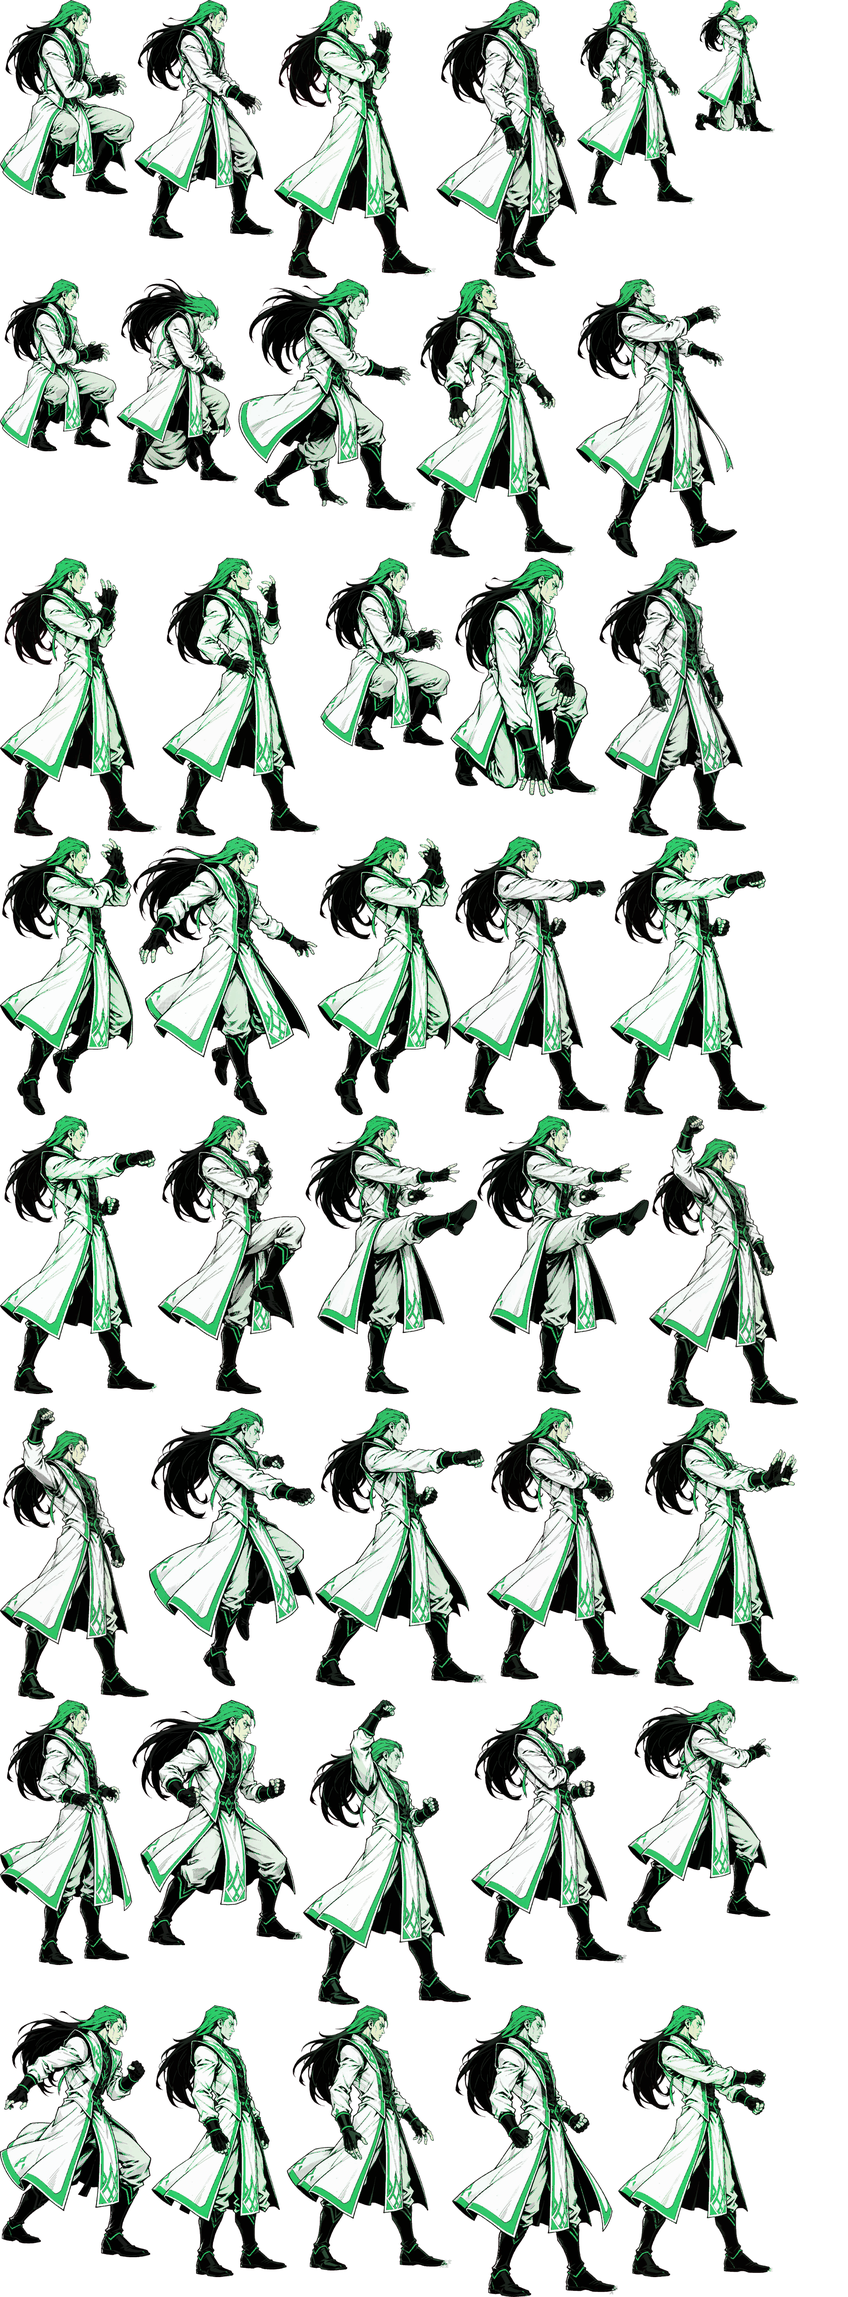
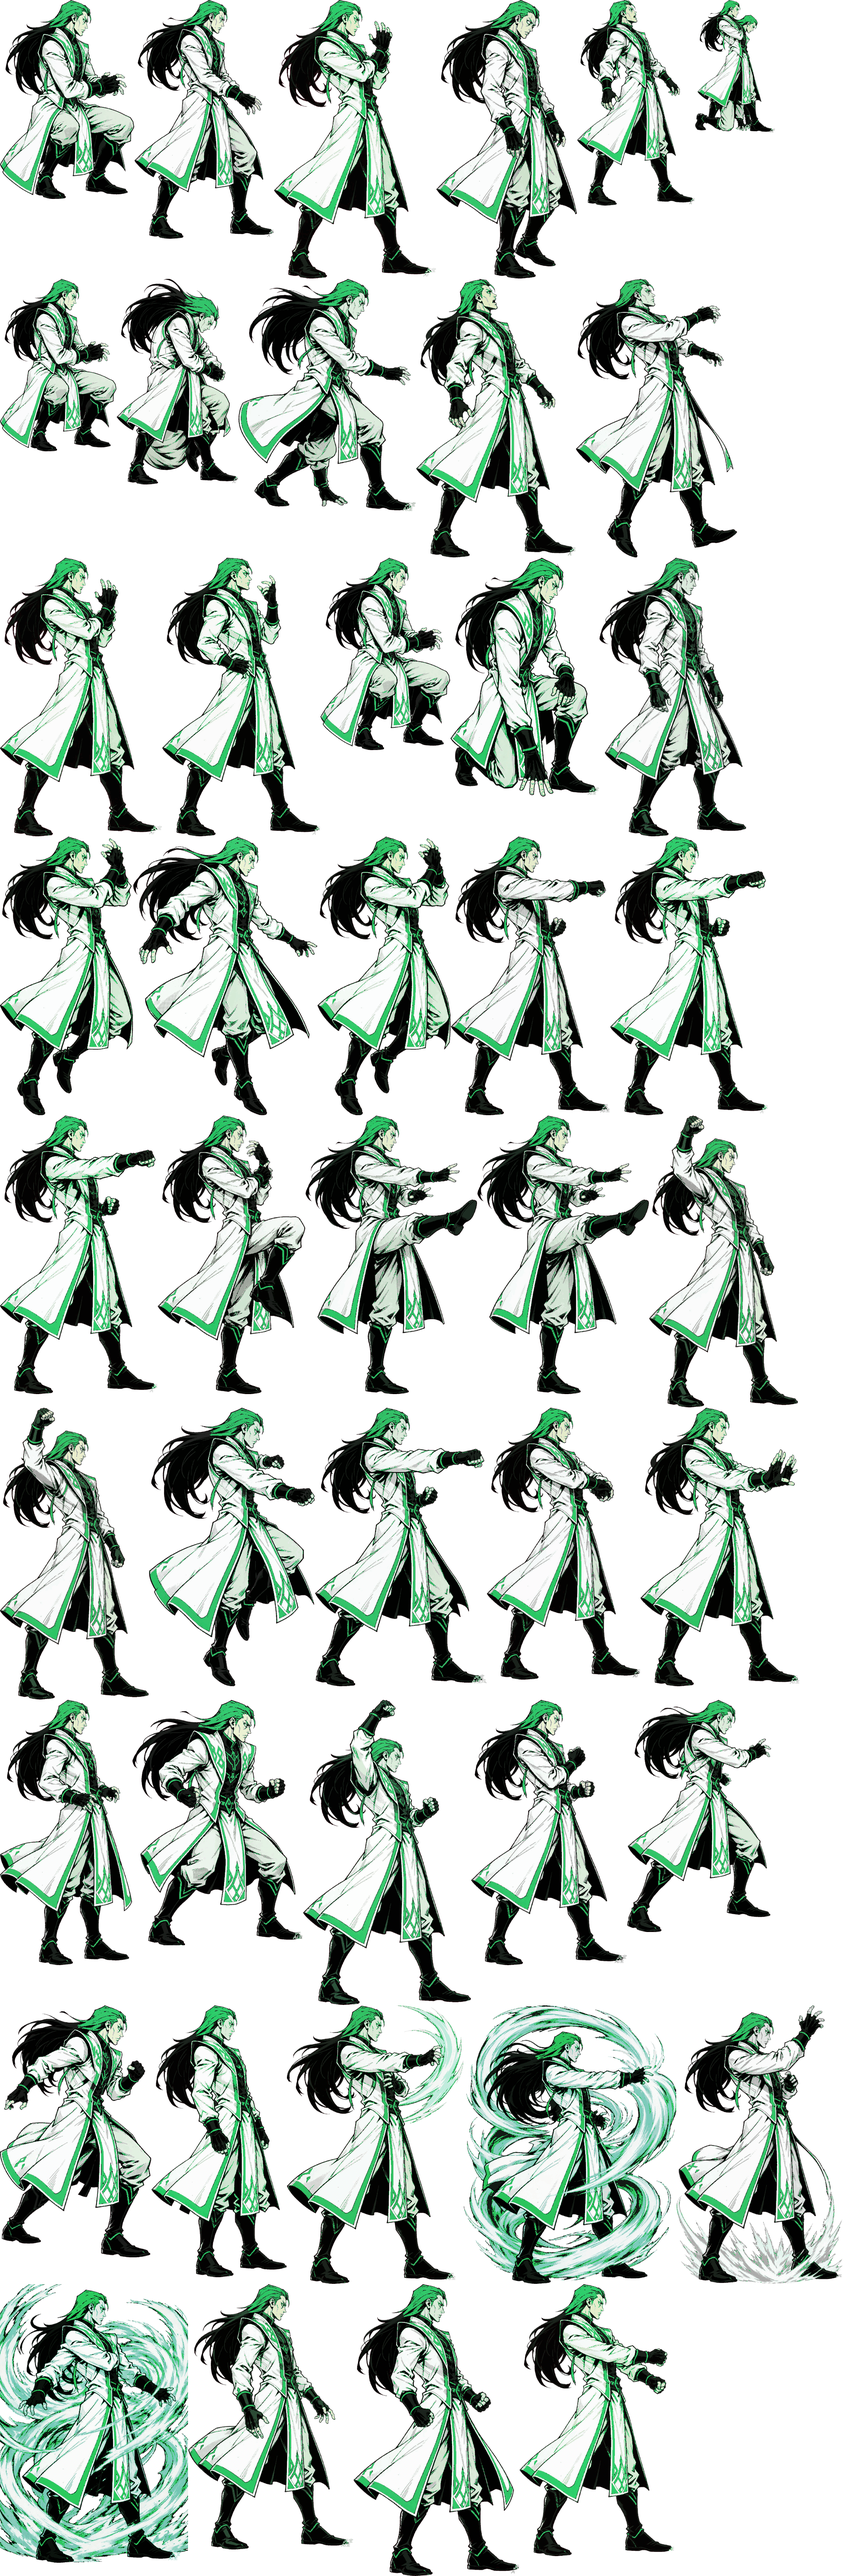
批次 20261027-0911 · [T271] 动作专属化 27/27 全部完成：Goenitz + Orochi
最后两个 BOSS，动作专属化收官。

改了什么：
- gen-poses 加 8 条（Goenitz：半透明青白风刃/巨大旋风柱/上升气流/铺天盖地风暴；
  Orochi：纯白空间裂隙/地面白光柱/全身被光吞没/背后白色大蛇虚影）
- build-sheet 加两组 8 个动画 + EXCLUSIVE_OWNER
- poses.ts 加 8 个兜底
- 两个角色数据各改 5 处

BOSS 的视觉语言刻意和普通角色反着来：
- Goenitz 的风是**流动的、有形的、铺满画面的**（和火/电那种"贴在身上"的特效不同）
- Orochi 的光是**静止的、耀眼的、把人吞没的**——光の柱那张整个人几乎没入白光只剩轮廓；
  而且姿势**刻意不发力**（抬手即灭），和前面 25 个角色的"发力姿势"完全相反

意外之喜：Orochi 超必杀 AI 真画出了背后一条巨大的白色大蛇虚影。

出图受阻：连续 12 张（三天王）+ 8 张触发限流，goenitzjorm/goenitzsuper/orochi 全部失败；
等 3 分钟后逐个补跑（每次间隔 60 秒）全部成功。

怎么验证的：打包两个 BOSS 都检查了错误，失败=0；art:check 通过；npm run check 995 条全绿

diff --git a/src/data/chars/goenitz.ts b/src/data/chars/goenitz.ts
@@ -28,7 +28,7 @@ export const GOENITZ: CharDef = {
 
     // ---------------------------------------------------------------- 必杀技
     // ミズチ：长判定风刃突进
-    '236A': mv('236A', 'ミズチ', 'special', 42, 'special', [
+    '236A': mv('236A', 'ミズチ', 'goenitzspecial1', 42, 'special', [
       hit('h1', {
         box: { x: 14, y: -76, w: 52, h: 40 },
         frames: [11, 16],
@@ -42,7 +42,7 @@ export const GOENITZ: CharDef = {
     ], { input: { motion: '236', buttons: ['A'] }, travel: 70, travelFrames: 16 }),
 
     // ヨルムンガンド：慢速大気弾
-    '214A': mv('214A', 'ヨルムンガンド', 'special', 44, 'special', [], {
+    '214A': mv('214A', 'ヨルムンガンド', 'goenitzspecial2', 44, 'special', [], {
       input: { motion: '214', buttons: ['A'] },
       projectile: {
         anim: 'ヨルムンガンド',
@@ -63,7 +63,7 @@ export const GOENITZ: CharDef = {
     }),
 
     // 对空：上升气刃
-    '623A': mv('623A', 'ゲーニッツ・ライジング', 'special', 44, 'special', [
+    '623A': mv('623A', 'ゲーニッツ・ライジング', 'goenitzspecial3', 44, 'special', [
       hit('h1', {
         box: { x: 6, y: -96, w: 34, h: 72 },
         frames: [5, 13],
@@ -77,7 +77,7 @@ export const GOENITZ: CharDef = {
     ], { input: { motion: '623', buttons: ['A'] }, invuln: [{ frames: [1, 7], kind: 'full' }] }),
 
     // ---------------------------------------------------------------- 超必杀
-    '236236A': mv('236236A', '大気の奔流', 'special', 70, 'super', [
+    '236236A': mv('236236A', '大気の奔流', 'goenitzsuper', 70, 'super', [
       hit('h1', { box: { x: 8, y: -92, w: 48, h: 46 }, frames: [10, 14], damage: 46, hitStun: 18, hitstop: 8, meterGain: 0 }),
       hit('h2', { box: { x: 8, y: -96, w: 52, h: 56 }, frames: [20, 24], damage: 42, hitStun: 18, hitstop: 8, meterGain: 0 }),
       hit('h3', {
@@ -91,7 +91,7 @@ export const GOENITZ: CharDef = {
       }),
     ], { input: { motion: '236236', buttons: ['A'] }, meterCost: 50 }),
 
-    '236236AC': mv('236236AC', '大気の奔流 MAX', 'special', 84, 'super', [
+    '236236AC': mv('236236AC', '大気の奔流 MAX', 'goenitzsuper', 84, 'super', [
       hit('h1', { box: { x: 6, y: -94, w: 52, h: 50 }, frames: [8, 11], damage: 40, hitStun: 18, hitstop: 7, meterGain: 0 }),
       hit('h2', { box: { x: 6, y: -98, w: 56, h: 58 }, frames: [16, 19], damage: 38, hitStun: 18, hitstop: 7, meterGain: 0 }),
       hit('h3', { box: { x: 4, y: -102, w: 60, h: 66 }, frames: [24, 27], damage: 38, hitStun: 18, hitstop: 7, meterGain: 0 }),

diff --git a/src/render/poses.ts b/src/render/poses.ts
@@ -668,6 +668,15 @@ export const POSE_LIBRARY: Record<string, Pose> = {
   chrisspecial2: { frameDuration: 1, loop: false, exclusive: 'chris', frames: [f({ head: p(8, -54), neck: p(8, -46), hip: p(2, -28), legFront: [p(20, -18), p(32, -8)], legBack: [p(-10, -16), p(-14, -2)] })] },
   chrisspecial3: { frameDuration: 1, loop: false, exclusive: 'chris', frames: [f({ head: p(1, -74), neck: p(1, -64), hip: p(0, -41), armFront: [p(10, -66), p(8, -82)], armBack: [p(-10, -50), p(-14, -42)] })] },
   chrissuper: { frameDuration: 1, loop: false, exclusive: 'chris', frames: [f({ head: p(-2, -70), neck: p(-2, -60), hip: p(0, -38), armFront: [p(14, -58), p(28, -54)], armBack: [p(-14, -58), p(-28, -54)] })] },
+  // Goenitz / Orochi 专属必杀的兜底（key 与 anim 名一致）
+  goenitzspecial1: { frameDuration: 1, loop: false, exclusive: 'goenitz', frames: [f({ head: p(4, -70), neck: p(4, -60), hip: p(1, -38), armFront: [p(16, -58), p(30, -54)], armBack: [p(-10, -52), p(-16, -46)] })] },
+  goenitzspecial2: { frameDuration: 1, loop: false, exclusive: 'goenitz', frames: [f({ head: p(2, -70), neck: p(1, -60), hip: p(-1, -38), armFront: [p(18, -58), p(32, -52)], armBack: [p(-14, -56), p(-26, -50)] })] },
+  goenitzspecial3: { frameDuration: 1, loop: false, exclusive: 'goenitz', frames: [f({ head: p(0, -76), neck: p(0, -64), hip: p(0, -42), armFront: [p(8, -72), p(8, -90)], armBack: [p(-8, -50), p(-12, -42)] })] },
+  goenitzsuper: { frameDuration: 1, loop: false, exclusive: 'goenitz', frames: [f({ head: p(0, -72), neck: p(0, -62), hip: p(0, -40), armFront: [p(20, -60), p(34, -58)], armBack: [p(-20, -60), p(-34, -58)] })] },
+  orochispecial1: { frameDuration: 1, loop: false, exclusive: 'orochi', frames: [f({ head: p(2, -72), neck: p(2, -62), hip: p(0, -40), armFront: [p(14, -58), p(28, -54)], armBack: [p(-8, -54), p(-12, -48)] })] },
+  orochispecial2: { frameDuration: 1, loop: false, exclusive: 'orochi', frames: [f({ head: p(1, -70), neck: p(1, -60), hip: p(0, -39), armFront: [p(12, -46), p(16, -26)], armBack: [p(-10, -50), p(-14, -30)] })] },
+  orochispecial3: { frameDuration: 1, loop: false, exclusive: 'orochi', frames: [f({ head: p(0, -74), neck: p(0, -64), hip: p(0, -41), armFront: [p(10, -70), p(10, -88)], armBack: [p(-10, -52), p(-12, -44)] })] },
+  orochisuper: { frameDuration: 1, loop: false, exclusive: 'orochi', frames: [f({ head: p(0, -72), neck: p(0, -62), hip: p(0, -40), armFront: [p(22, -58), p(36, -56)], armBack: [p(-22, -58), p(-36, -56)] })] },
   /** 升龙系：整个人向上冲，手臂上举 */
   specialUppercut: {
     frameDuration: 1,

diff --git a/src/data/chars/orochi.ts b/src/data/chars/orochi.ts
@@ -32,7 +32,7 @@ export const OROCHI: CharDef = {
 
     // ---------------------------------------------------------------- 必杀技
     // 空間断ち：极长的横向判定（半屏）
-    '236A': mv('236A', '空間断ち', 'special', 46, 'special', [
+    '236A': mv('236A', '空間断ち', 'orochispecial1', 46, 'special', [
       hit('h1', {
         box: { x: 10, y: -100, w: 200, h: 100 },
         frames: [14, 20],
@@ -46,7 +46,7 @@ export const OROCHI: CharDef = {
     ], { input: { motion: '236', buttons: ['A'] } }),
 
     // 大地の怒り：脚下扬起的冲击（不可防）
-    '214A': mv('214A', '大地の怒り', 'special', 50, 'special', [
+    '214A': mv('214A', '大地の怒り', 'orochispecial2', 50, 'special', [
       hit('h1', {
         box: { x: -60, y: -40, w: 240, h: 40 },
         frames: [16, 24],
@@ -61,7 +61,7 @@ export const OROCHI: CharDef = {
     ], { input: { motion: '214', buttons: ['A'] }, blockable: false }),
 
     // 光の柱：对空（不可防）
-    '623A': mv('623A', '光の柱', 'special', 44, 'special', [
+    '623A': mv('623A', '光の柱', 'orochispecial3', 44, 'special', [
       hit('h1', {
         box: { x: -20, y: -200, w: 60, h: 200 },
         frames: [6, 14],
@@ -77,7 +77,7 @@ export const OROCHI: CharDef = {
 
     // ---------------------------------------------------------------- 超必杀
     // 全屏判定 + 不可防：BOSS 的"无解"感就靠这一招
-    '236236A': mv('236236A', '大蛇の裁き', 'special', 76, 'super', [
+    '236236A': mv('236236A', '大蛇の裁き', 'orochisuper', 76, 'super', [
       hit('h1', {
         box: { ...FULLSCREEN_BOX },
         frames: [20, 30],
@@ -91,7 +91,7 @@ export const OROCHI: CharDef = {
       }),
     ], { input: { motion: '236236', buttons: ['A'] }, meterCost: 50, blockable: false }),
 
-    '236236AC': mv('236236AC', '大蛇の裁き MAX', 'special', 90, 'super', [
+    '236236AC': mv('236236AC', '大蛇の裁き MAX', 'orochisuper', 90, 'super', [
       hit('h1', {
         box: { ...FULLSCREEN_BOX },
         frames: [16, 24],

diff --git a/docs/MOVE-PER-CHAR.md b/docs/MOVE-PER-CHAR.md
@@ -86,11 +86,11 @@ mv('236A', '百拾四式・荒咬', 'punchLight', 26, 'special', [...])
 | 22 | 社 yashiro | 強靭ダン / ミサイルマイト / ジェットカウンター / ミリオンスタンプ | **done** |
 | 23 | シェルミー shermie | シェルミーフラッシュ / スパイラル / アクセルスピンナー / パラダイス | **done** |
 | 24 | クリス chris | クリスフレイム / スライディング / フレイムアッパー / 炎の大蛇 | **done** |
-| 25 | ゲーニッツ goenitz | 夜風の曲 / 氷河 / 大気圏の引裂き / 真・八拾八式 | - |
-| 26 | 暴走庵 orochi_iori | 百八式・闇払い / 百式・鬼焼き / 屑風 / 禁千弐百拾八式・八稚女 | - |
-| 27 | 覚醒レオナ orochi_leona | グランドセイバー / ムーンストライカー / Xキャリバー / リボルブブラスター | - |
+| 25 | ゲーニッツ goenitz | ミズチ / ヨルムンガンド / ライジング / 大気の奔流 | **done** |
+| 26 | 暴走庵 orochi_iori | 继承八神的 4 个专属姿势 | **done**（派生而来） |
+| 27 | 覚醒レオナ orochi_leona | 继承 Leona 的 4 个专属姿势 | **done**（派生而来） |
 
-**完成度：25 / 27**
+**完成度：27 / 27 ✅ 全部完成**
 
 ## 六、已完成记录
 
@@ -418,6 +418,46 @@ benispecial1: {
 | 炎の大蛇（超必杀） | `chrissuper` | **巨大青白火焰凝成蛇形、蛇头清晰** |
 
 > 三天王的色系完全分开：**暗紫（社）/ 洋红（夏尔米）/ 青白（克里斯）**。
+
+### 26. ゲーニッツ Goenitz（done）— BOSS
+
+风、无形青白气流：
+
+| 招式 | 专属动画 | 出图效果 |
+|---|---|---|
+| ミズチ（236A） | `goenitzspecial1` | 手臂前卷起**半透明青白风刃** |
+| ヨルムンガンド（214A） | `goenitzspecial2` | 周身**巨大青白旋风柱** |
+| ライジング（623A） | `goenitzspecial3` | 脚下上升气流 |
+| 大気の奔流（超必杀） | `goenitzsuper` | **铺天盖地的风暴充满整个画面** |
+
+### 27. オロチ Orochi（done）— 最终 BOSS
+
+纯白神光。**刻意和所有普通角色反着来：别人是"发力"，它是"抬手即灭"**：
+
+| 招式 | 专属动画 | 出图效果 |
+|---|---|---|
+| 空間断ち（236A） | `orochispecial1` | 手一划、**纯白空间裂隙**、身体几乎不动 |
+| 大地の怒り（214A） | `orochispecial2` | 地面喷起白色光柱 |
+| 光の柱（623A） | `orochispecial3` | **整个人几乎被白光吞没、只剩轮廓** |
+| 大蛇の裁き（超必杀） | `orochisuper` | **背后浮现巨大白色大蛇虚影 + 全身神光** |
+
+> 暴走庵 / 覚醒レオナ 是从八神 / Leona **染色派生**的变体，专属姿势自动继承，不用单独出图。
+
+---
+
+## 八、总结：27 个角色的视觉语言
+
+| 类别 | 角色 | 主色 |
+|---|---|---|
+| 火焰 | 京（橙）、Joe（橙黄）、Chang（橙黄）、Billy（火龙）、Chris（青白） | 橙/青白 |
+| 电 | 红丸（紫电）、Shermie（洋红电弧） | 紫/洋红 |
+| 气/波动 | Terry（橙红）、獠（橙黄）、Robert（青白）、Yuri（粉白）、椎拳崇（青绿）、Kensou 巨龙 | 多色 |
+| 超能力 | Athena（粉紫） | 粉紫 |
+| 刀/兵器 | 影二（紫黑刀气）、Billy（三节棍） | 紫黑 |
+| 暗色 | 八神（紫焰）、社（暗紫） | 紫/暗紫 |
+| 无属性 | 大门、Clark（纯摔技含对手） | 无 |
+| 风 | **Goenitz** | 青白气流 |
+| 光 | **Orochi** | 纯白 |
 
 ## 七、执行约定
 

diff --git a/.continue/doing/59bce7.md b/.continue/doing/59bce7.md
@@ -1,0 +1,17 @@
+# 队列 · 会话 59bce766a368447cf9cf15c7e36322c83
+
+> 状态：执行中
+> 创建：2026-10-27
+> 批次：20261027-0911
+
+> 本批目标：最后两个 BOSS（Goenitz、Orochi），动作专属化收官。
+
+- [x] [T271] Goenitz + Orochi 各 4 个必杀专属动作（**27/27 全部完成**）
+  - 做了什么：①`gen-poses.mjs` 加 8 条（Goenitz：半透明青白风刃/巨大旋风柱/上升气流/铺天盖地风暴；Orochi：纯白空间裂隙/地面白光柱/全身被光吞没/背后白色大蛇虚影）；②`build-sheet.mjs` 加两组 8 个动画 + `EXCLUSIVE_OWNER`；③`poses.ts` 加 8 个兜底；④两个角色数据各改 5 处
+  - **BOSS 的视觉语言刻意和普通角色反着来**：
+    - Goenitz 的风是**流动的、有形的、铺满画面的**（和火/电那种"贴在身上"的特效不同）
+    - Orochi 的光是**静止的、耀眼的、把人吞没的** —— `光の柱` 那张整个人几乎没入白光只剩轮廓；而且姿势**刻意不发力**（抬手即灭），和前面 25 个角色的"发力姿势"完全相反
+  - **意外之喜**：Orochi 超必杀 AI 真画出了**背后一条巨大的白色大蛇虚影**
+  - 出图受阻：连续 12 张（三天王）+ 8 张触发限流，`goenitzjorm`/`goenitzsuper`/orochi 全部失败；等 3 分钟后**逐个补跑（每次间隔 60 秒）全部成功**
+  - 验证：打包两个 BOSS 都检查了错误，失败=0；`art:check` 通过；`npm run check` **995 条全绿**
+  - 批次：20261027-0911

diff --git a/.continue/TASKS.md b/.continue/TASKS.md
@@ -289,3 +289,4 @@
 - [x] T268 角色动作专属化 20/27：Chang（铁球橙焰）+ Billy（三节棍火龙）各 4 招
 - [x] T269 角色动作专属化 22/27：影二（紫黑刀气）+ 真吾（未完成招式）各 4 招
 - [x] T270 角色动作专属化 25/27：三天王（社暗紫/夏尔米洋红/克里斯青白）各 4 招
+- [x] T271 角色动作专属化 27/27 完成：Goenitz（风）+ Orochi（白光）各 4 招；全部 27 角色动作专属化收官
